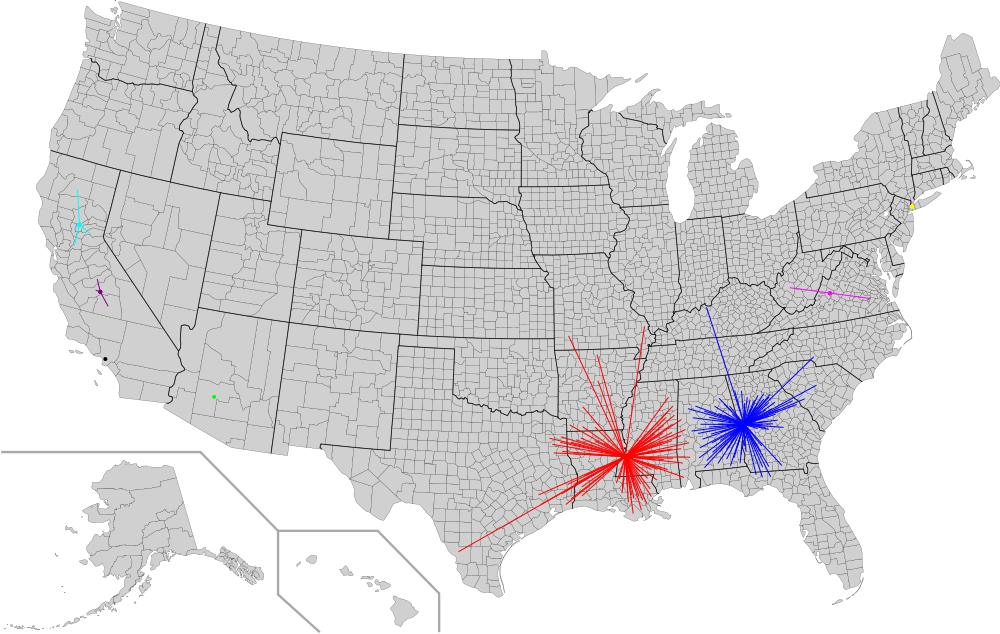
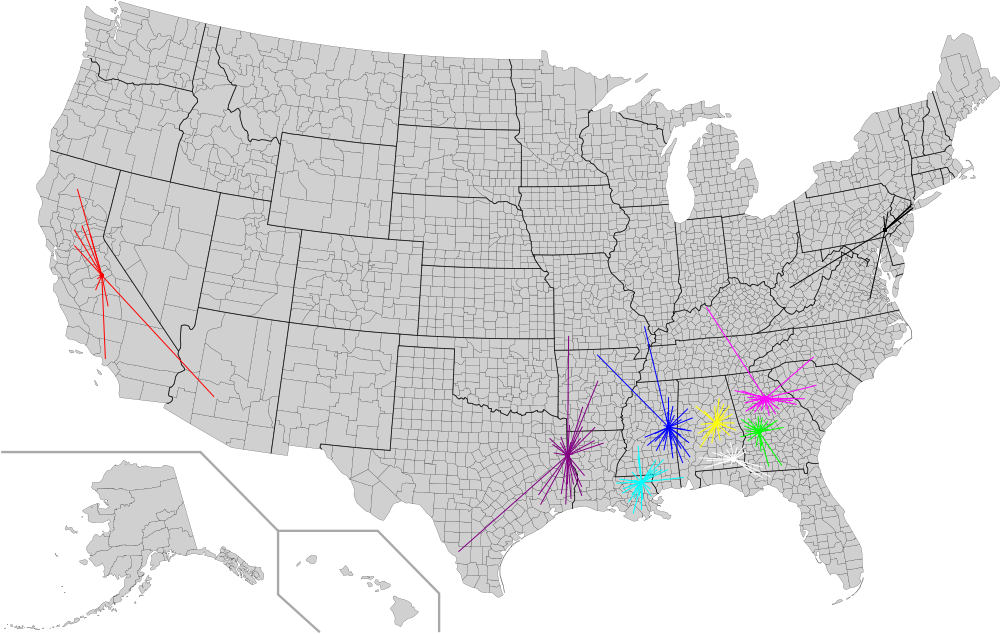
Storie

diff --git a/esercizio4/svoglimento/index.js b/esercizio4/svoglimento/index.js
@@ -27,35 +27,39 @@ async function main() {
 
 async function beginAlgorithm() {
     console.log("Letti "+Object.keys(datasets).length+" file. Inizio calcolo..");
-    const skipHeavy = false;
+    const skipHeavy = true;
     if(!skipHeavy) {
         compute("Risposta 1 - (Hierarchical)", new Hierarchical(datasets[3107], 15));
         compute("Risposta 2 - (KMeans)", new KMeans(datasets[3107], 15, 5));
-
-        compute("Risposta 4 - (Hierarchical)", new Hierarchical(datasets[212], 9));
-        compute("Risposta 5 - (KMeans)", new KMeans(datasets[212], 9, 5));
     }
+
+    compute("Risposta 4 - (Hierarchical)", new Hierarchical(datasets[212], 9));
+    compute("Risposta 5 - (KMeans)", new KMeans(datasets[212], 9, 5));
+
     const skipBenchmark = true;
     if(!skipBenchmark) {
         compute("Benchmark kmeans", new KMeans(datasets[562],16,5));
         compute("Benchmark hierarchical" ,new Hierarchical(datasets[562],16));
     }
 
-    [212,562,1041].forEach((key)=>{
-        const plotData = {
-            dataset: key,
-            data: {}
-        };
-        const hierarchicalData = Hierarchical
-            .cascadeClustering(key,datasets[key],6,20);
-        plotData.data["Hierarchical"] = Cluster.cascadeDistortion(hierarchicalData);
+    const skipPlot = true;
+    if(!skipPlot) {
+        [212,562,1041].forEach((key)=>{
+            const plotData = {
+                dataset: key,
+                data: {}
+            };
+            const hierarchicalData = Hierarchical
+                .cascadeClustering(key,datasets[key],6,20);
+            plotData.data["Hierarchical"] = Cluster.cascadeDistortion(hierarchicalData);
 
-        const kmeansData = KMeans
-            .cascadeClustering(key,datasets[key],6,20);
-        plotData.data["KMeans"] = Cluster.cascadeDistortion(kmeansData);
+            const kmeansData = KMeans
+                .cascadeClustering(key,datasets[key],6,20);
+            plotData.data["KMeans"] = Cluster.cascadeDistortion(kmeansData);
 
-        GraphPlotter.distortion(plotData);
-    });
+            GraphPlotter.distortion(plotData);
+        });
+    }
 }
 
 /**

diff --git a/esercizio4/svoglimento/algorithms/kmeans.js b/esercizio4/svoglimento/algorithms/kmeans.js
@@ -19,10 +19,20 @@ module.exports = class KMeans extends Algorithm {
         this.centroidi = [];
     }
 
+    static shuffle(a) {
+        for (let i = a.length - 1; i > 0; i--) {
+            const j = Math.floor(Math.random() * (i + 1));
+            [a[i], a[j]] = [a[j], a[i]];
+        }
+        return a;
+    }
+
     clustering() {
         // Secondo la consegna dell'esercizio, devo avere k centroidi rappresentanti le
         // 15 contee con popolazione maggiore
-        const contee = this.dataset.getAll().sort((a,b)=>b.popolazione - a.popolazione);
+        const contee = KMeans.shuffle(this.dataset.getAll().sort((a,b)=>b.popolazione - a.popolazione));
+        //Se costruisco i k centroidi prendendo a caso 15 contee, ottengo una distorsione mediamente peggiore
+        //const contee = KMeans.shuffle(this.dataset.getAll().sort((a,b)=>b.popolazione - a.popolazione));
         let n = contee.length;
 
         for(let i=0;i<this.k;i++) {
